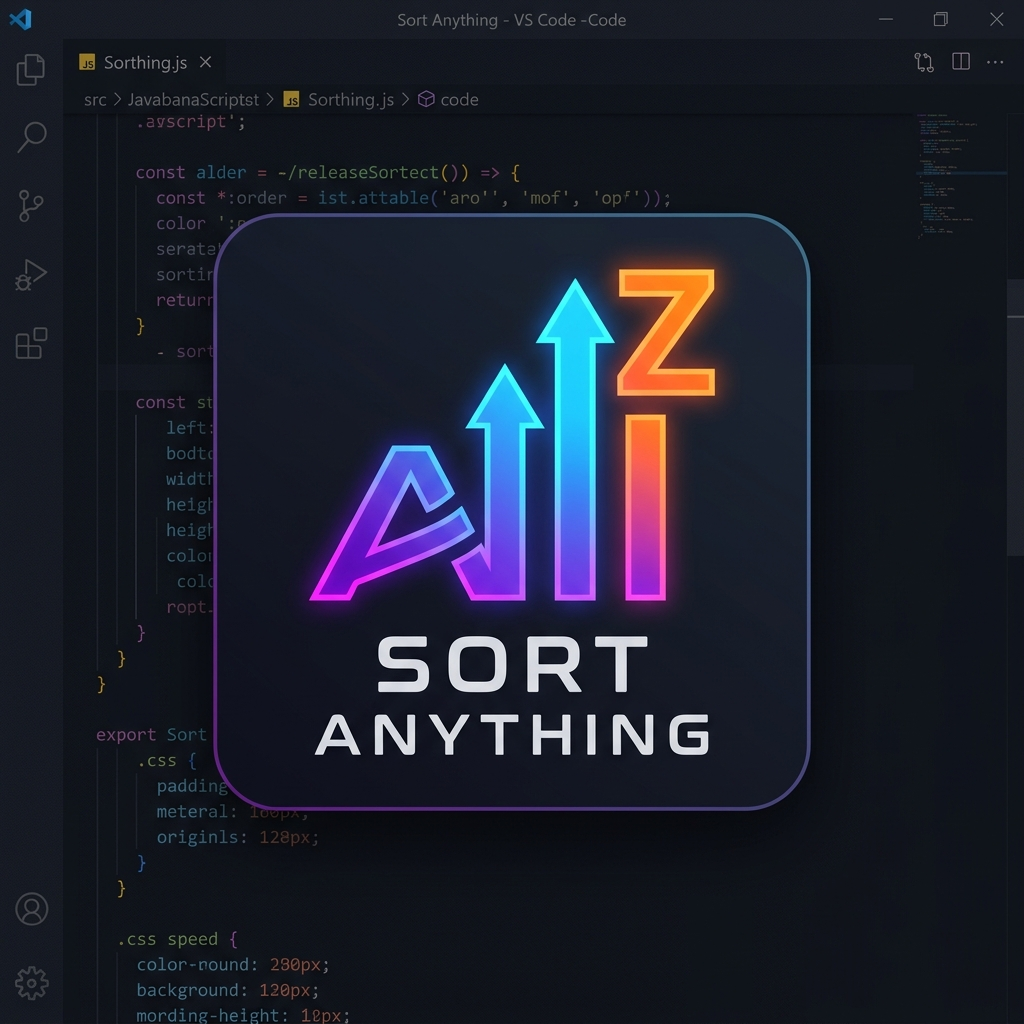
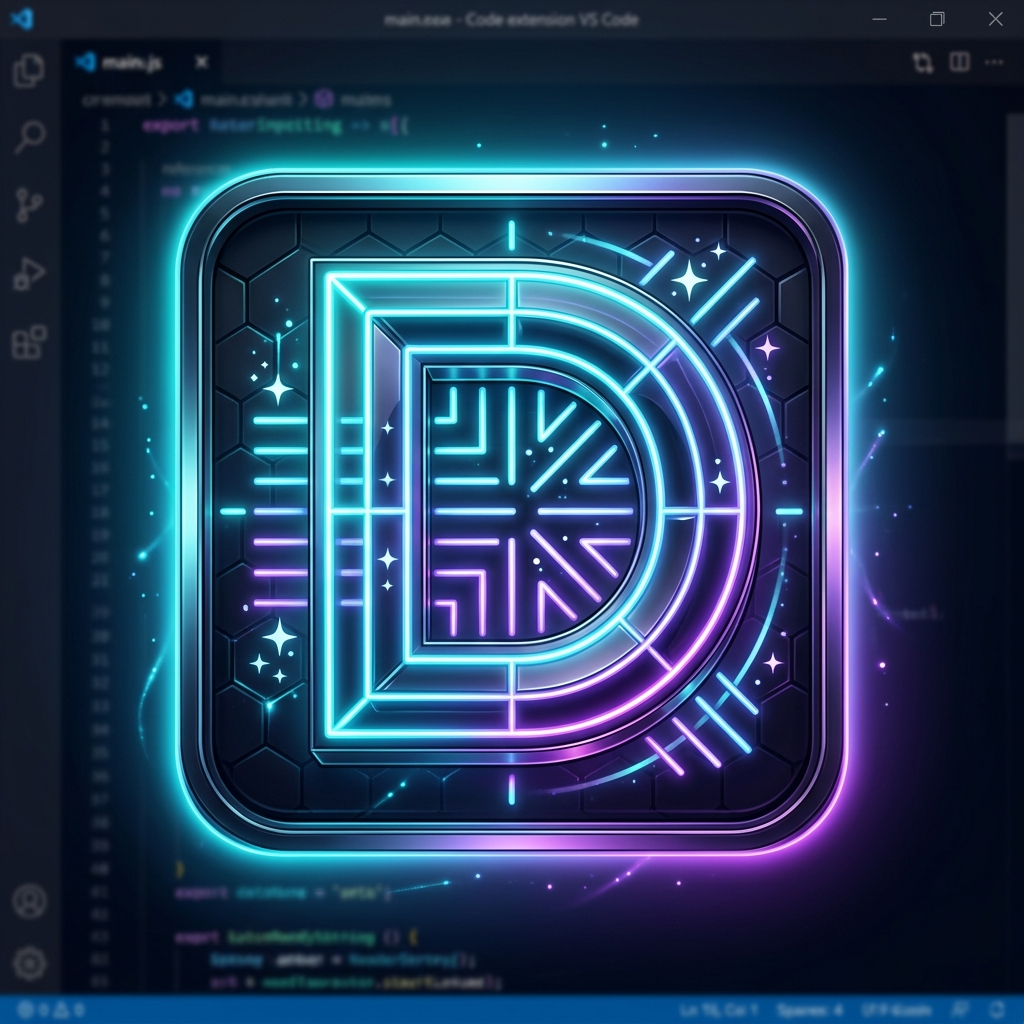
Rename extension to Dyno Extension and bump version to v0.2.0

diff --git a/src/commitGenerator.ts b/src/commitGenerator.ts
@@ -78,17 +78,17 @@ async function getGeminiModels(apiKey: string): Promise<vscode.QuickPickItem[]> 
 }
 
 async function callGemini(prompt: string, systemInstruction: string, overrideModel?: string): Promise<string> {
-    const config = vscode.workspace.getConfiguration('sortAnything');
+    const config = vscode.workspace.getConfiguration('dynoExtension');
     const apiKey = config.get<string>('geminiApiKey', '').trim();
     const model = (overrideModel || 'gemini-3.5-flash').trim();
 
     if (!apiKey) {
         const action = await vscode.window.showErrorMessage(
-            'Sort Anything: Gemini API Key is missing.',
+            'Dyno Extension: Gemini API Key is missing.',
             'Open Settings'
         );
         if (action === 'Open Settings') {
-            vscode.commands.executeCommand('workbench.action.openSettings', 'sortAnything');
+            vscode.commands.executeCommand('workbench.action.openSettings', 'dynoExtension');
         }
         throw new Error('Gemini API Key missing — operation cancelled.');
     }
@@ -128,7 +128,7 @@ async function callGemini(prompt: string, systemInstruction: string, overrideMod
 // ---------------------------------------------------------------------------
 
 async function callOllama(prompt: string, systemPrompt: string, overrideModel?: string): Promise<string> {
-    const config = vscode.workspace.getConfiguration('sortAnything');
+    const config = vscode.workspace.getConfiguration('dynoExtension');
     const endpoint = config.get<string>('ollamaEndpoint', 'http://localhost:11434').trim().replace(/\/$/, '');
     const model = (overrideModel || config.get<string>('ollamaModel', 'llama3')).trim();
 
@@ -204,13 +204,13 @@ async function runGeneration(
     }>('vscode.git');
 
     if (!gitExtension) {
-        vscode.window.showErrorMessage('Sort Anything: VS Code Git extension not found.');
+        vscode.window.showErrorMessage('Dyno Extension: VS Code Git extension not found.');
         return;
     }
 
     const git = gitExtension.exports.getAPI(1);
     if (git.repositories.length === 0) {
-        vscode.window.showErrorMessage('Sort Anything: No active Git repository found.');
+        vscode.window.showErrorMessage('Dyno Extension: No active Git repository found.');
         return;
     }
 
@@ -241,7 +241,7 @@ async function runGeneration(
         });
 
         const pickedRepo = await vscode.window.showQuickPick(repoItems, {
-            title: 'Sort Anything — Select Git Repository',
+            title: 'Dyno Extension — Select Git Repository',
             placeHolder: 'Select the repository to generate a commit message for',
             matchOnDescription: true,
         });
@@ -257,13 +257,13 @@ async function runGeneration(
     try {
         diff = getGitDiff(selectedRepo.rootUri.fsPath);
     } catch (err) {
-        vscode.window.showErrorMessage(`Sort Anything: ${(err as Error).message}`);
+        vscode.window.showErrorMessage(`Dyno Extension: ${(err as Error).message}`);
         return;
     }
 
     if (!diff) {
         vscode.window.showWarningMessage(
-            'Sort Anything: No staged changes found. Please run "git add" first.'
+            'Dyno Extension: No staged changes found. Please run "git add" first.'
         );
         return;
     }
@@ -278,7 +278,7 @@ async function runGeneration(
         const message = await vscode.window.withProgress(
             {
                 location: vscode.ProgressLocation.Notification,
-                title: `Sort Anything: Generating commit message with ${label}...`,
+                title: `Dyno Extension: Generating commit message with ${label}...`,
                 cancellable: false,
             },
             async () => {
@@ -291,16 +291,16 @@ async function runGeneration(
 
         // Insert final message
         inputBox.value = message;
-        vscode.window.setStatusBarMessage(`$(check) Sort Anything: Commit message populated from ${label}!`, 4000);
+        vscode.window.setStatusBarMessage(`$(check) Dyno Extension: Commit message populated from ${label}!`, 4000);
     } catch (err) {
         logError(err, `Failed to generate commit message with ${label}`);
         
         const action = await vscode.window.showErrorMessage(
-            `Sort Anything: ${(err as Error).message}`,
+            `Dyno Extension: ${(err as Error).message}`,
             'Open Settings'
         );
         if (action === 'Open Settings') {
-            vscode.commands.executeCommand('workbench.action.openSettings', 'sortAnything');
+            vscode.commands.executeCommand('workbench.action.openSettings', 'dynoExtension');
         }
     }
 }
@@ -352,8 +352,8 @@ let sessionGeminiModel: string | undefined;
 let sessionOllamaModel: string | undefined;
 
 export async function generateCommitMessage(context: vscode.ExtensionContext, scm?: any): Promise<void> {
-    const config = vscode.workspace.getConfiguration('sortAnything');
-    const currentProvider = config.get<string>('aiProvider', 'gemini');
+    const config = vscode.workspace.getConfiguration('dynoExtension');
+    const currentProvider = context.globalState.get<string>('lastAiProvider', 'gemini');
     
     // Read last used models from globalState
     const geminiModel = context.globalState.get<string>('lastGeminiModel', 'gemini-3.5-flash');
@@ -376,14 +376,14 @@ export async function generateCommitMessage(context: vscode.ExtensionContext, sc
             action: 'ollama',
         },
         {
-            label: '$(settings-gear) Switch AI Provider / Configure...',
-            description: 'Open Settings to change provider, model, or API keys',
+            label: '$(settings-gear) Configure API Keys & Endpoints...',
+            description: 'Open Settings to configure Gemini API Key or Ollama Endpoint',
             action: 'settings',
         },
     ];
 
     const picked = await vscode.window.showQuickPick(items, {
-        title: 'Sort Anything — Generate Commit Message',
+        title: 'Dyno Extension — Generate Commit Message',
         placeHolder: 'Select AI provider to generate commit message',
         matchOnDescription: true,
     });
@@ -391,18 +391,18 @@ export async function generateCommitMessage(context: vscode.ExtensionContext, sc
     if (!picked) { return; }
 
     if (picked.action === 'settings') {
-        vscode.commands.executeCommand('workbench.action.openSettings', 'sortAnything');
+        vscode.commands.executeCommand('workbench.action.openSettings', 'dynoExtension');
         return;
     }
 
     if (picked.action === 'gemini') {
         if (!geminiApiKey) {
             const action = await vscode.window.showErrorMessage(
-                'Sort Anything: Gemini API Key is missing.',
+                'Dyno Extension: Gemini API Key is missing.',
                 'Open Settings'
             );
             if (action === 'Open Settings') {
-                vscode.commands.executeCommand('workbench.action.openSettings', 'sortAnything');
+                vscode.commands.executeCommand('workbench.action.openSettings', 'dynoExtension');
             }
             return;
         }
@@ -416,7 +416,7 @@ export async function generateCommitMessage(context: vscode.ExtensionContext, sc
                 modelItems = await vscode.window.withProgress(
                     {
                         location: vscode.ProgressLocation.Notification,
-                        title: 'Sort Anything: Fetching model list from Gemini...',
+                        title: 'Dyno Extension: Fetching model list from Gemini...',
                         cancellable: false,
                     },
                     () => getGeminiModels(geminiApiKey)
@@ -424,17 +424,17 @@ export async function generateCommitMessage(context: vscode.ExtensionContext, sc
             } catch (err) {
                 logError(err, 'Failed to fetch models from Gemini');
                 const action = await vscode.window.showErrorMessage(
-                    `Sort Anything: ${(err as Error).message}`,
+                    `Dyno Extension: ${(err as Error).message}`,
                     'Open Settings'
                 );
                 if (action === 'Open Settings') {
-                    vscode.commands.executeCommand('workbench.action.openSettings', 'sortAnything');
+                    vscode.commands.executeCommand('workbench.action.openSettings', 'dynoExtension');
                 }
                 return;
             }
 
             const pickedModel = await vscode.window.showQuickPick(modelItems, {
-                title: 'Sort Anything — Select Gemini Model',
+                title: 'Dyno Extension — Select Gemini Model',
                 placeHolder: 'Select a Gemini model',
                 matchOnDescription: true,
             });
@@ -447,7 +447,7 @@ export async function generateCommitMessage(context: vscode.ExtensionContext, sc
             await context.globalState.update('lastGeminiModel', targetModel);
         }
 
-        await config.update('aiProvider', 'gemini', vscode.ConfigurationTarget.Global);
+        await context.globalState.update('lastAiProvider', 'gemini');
         await runGeneration('gemini', targetModel, scm);
 
     } else if (picked.action === 'ollama') {
@@ -460,7 +460,7 @@ export async function generateCommitMessage(context: vscode.ExtensionContext, sc
                 modelItems = await vscode.window.withProgress(
                     {
                         location: vscode.ProgressLocation.Notification,
-                        title: 'Sort Anything: Fetching model list from Ollama...',
+                        title: 'Dyno Extension: Fetching model list from Ollama...',
                         cancellable: false,
                     },
                     () => getOllamaModels(ollamaEndpoint)
@@ -469,17 +469,17 @@ export async function generateCommitMessage(context: vscode.ExtensionContext, sc
                 logError(err, 'Failed to fetch models from Ollama');
                 
                 const action = await vscode.window.showErrorMessage(
-                    `Sort Anything: ${(err as Error).message}`,
+                    `Dyno Extension: ${(err as Error).message}`,
                     'Open Settings'
                 );
                 if (action === 'Open Settings') {
-                    vscode.commands.executeCommand('workbench.action.openSettings', 'sortAnything');
+                    vscode.commands.executeCommand('workbench.action.openSettings', 'dynoExtension');
                 }
                 return;
             }
 
             const pickedModel = await vscode.window.showQuickPick(modelItems, {
-                title: 'Sort Anything — Select Ollama Model',
+                title: 'Dyno Extension — Select Ollama Model',
                 placeHolder: 'Select an available local model',
                 matchOnDescription: true,
             });
@@ -492,7 +492,7 @@ export async function generateCommitMessage(context: vscode.ExtensionContext, sc
             await context.globalState.update('lastOllamaModel', targetModel);
         }
 
-        await config.update('aiProvider', 'ollama', vscode.ConfigurationTarget.Global);
+        await context.globalState.update('lastAiProvider', 'ollama');
         await runGeneration('ollama', targetModel, scm);
     }
 }

diff --git a/src/extension.ts b/src/extension.ts
@@ -5,56 +5,56 @@ import { generateCommitMessage } from './commitGenerator';
 import { logInfo } from './utils';
 
 export function activate(context: vscode.ExtensionContext) {
-    logInfo('Sort Anything extension activated successfully.');
+    logInfo('Dyno Extension activated successfully.');
     const sortDocumentDisposable = vscode.commands.registerTextEditorCommand(
-        'sortAnything.sortDocument',
+        'dynoExtension.sortDocument',
         (textEditor, edit) => {
             const edits = sortDocument(textEditor.document);
             if (edits.length === 0) {
-                vscode.window.setStatusBarMessage('$(check) Sort Anything: Already sorted or nothing to sort.', 3000);
+                vscode.window.setStatusBarMessage('$(check) Dyno Extension: Already sorted or nothing to sort.', 3000);
                 return;
             }
             for (const textEdit of edits) {
                 edit.replace(textEdit.range, textEdit.newText);
             }
-            vscode.window.setStatusBarMessage('$(check) Sort Anything: Document sorted!', 3000);
+            vscode.window.setStatusBarMessage('$(check) Dyno Extension: Document sorted!', 3000);
         }
     );
 
     const sortSelectionDisposable = vscode.commands.registerTextEditorCommand(
-        'sortAnything.sortSelection',
+        'dynoExtension.sortSelection',
         (textEditor, edit) => {
             const edits = sortSelection(textEditor.document, textEditor.selection);
             if (edits.length === 0) {
-                vscode.window.setStatusBarMessage('$(check) Sort Anything: Already sorted or nothing to sort.', 3000);
+                vscode.window.setStatusBarMessage('$(check) Dyno Extension: Already sorted or nothing to sort.', 3000);
                 return;
             }
             for (const textEdit of edits) {
                 edit.replace(textEdit.range, textEdit.newText);
             }
-            vscode.window.setStatusBarMessage('$(check) Sort Anything: Selection sorted!', 3000);
+            vscode.window.setStatusBarMessage('$(check) Dyno Extension: Selection sorted!', 3000);
         }
     );
 
     const generateBarrelDisposable = vscode.commands.registerCommand(
-        'sortAnything.generateDartBarrel',
+        'dynoExtension.generateDartBarrel',
         async (folderUri: vscode.Uri) => {
             // Fallback: use the workspace folder if called from command palette
             const targetUri = folderUri ?? vscode.workspace.workspaceFolders?.[0]?.uri;
             if (!targetUri) {
-                vscode.window.showErrorMessage('Sort Anything: No folder selected.');
+                vscode.window.showErrorMessage('Dyno Extension: No folder selected.');
                 return;
             }
             try {
                 await generateBarrelFile(targetUri);
             } catch (e) {
-                vscode.window.showErrorMessage(`Sort Anything: ${(e as Error).message}`);
+                vscode.window.showErrorMessage(`Dyno Extension: ${(e as Error).message}`);
             }
         }
     );
 
     const generateCommitDisposable = vscode.commands.registerCommand(
-        'sortAnything.generateCommitMessage',
+        'dynoExtension.generateCommitMessage',
         async (scm?: any) => {
             await generateCommitMessage(context, scm);
         }

diff --git a/src/barrelGenerator.ts b/src/barrelGenerator.ts
@@ -70,7 +70,7 @@ export async function generateBarrelFile(folderUri: vscode.Uri): Promise<void> {
 
     if (exportablePaths.length === 0) {
         vscode.window.showWarningMessage(
-            `Sort Anything: No exportable Dart files found in "${folderName}".`
+            `Dyno Extension: No exportable Dart files found in "${folderName}".`
         );
         return;
     }
@@ -92,7 +92,7 @@ export async function generateBarrelFile(folderUri: vscode.Uri): Promise<void> {
     await vscode.window.showTextDocument(doc);
 
     vscode.window.setStatusBarMessage(
-        `$(check) Sort Anything: Barrel file "${barrelFileName}" generated with ${exportLines.length} export(s).`,
+        `$(check) Dyno Extension: Barrel file "${barrelFileName}" generated with ${exportLines.length} export(s).`,
         4000
     );
 }

diff --git a/src/sorter.ts b/src/sorter.ts
@@ -76,7 +76,7 @@ function sortText(text: string, languageId: string, indent: string): string | nu
             return sortLines(text);
         }
     } catch (e) {
-        vscode.window.showErrorMessage(`Sort Anything: Failed to sort — ${(e as Error).message}`);
+        vscode.window.showErrorMessage(`Dyno Extension: Failed to sort — ${(e as Error).message}`);
         console.error('Error sorting text:', e);
     }
     return null;

diff --git a/src/utils.ts b/src/utils.ts
@@ -4,7 +4,7 @@ let outputChannel: vscode.OutputChannel | undefined;
 
 function getOutputChannel(): vscode.OutputChannel {
     if (!outputChannel) {
-        outputChannel = vscode.window.createOutputChannel('Sort Anything');
+        outputChannel = vscode.window.createOutputChannel('Dyno Extension');
     }
     return outputChannel;
 }

diff --git a/README.md b/README.md
@@ -1,6 +1,6 @@
 <div align="center">
-  <img src="icon.png" width="128" height="128" alt="Sort Anything Icon" />
-  <h1>Sort Anything</h1>
+  <img src="icon.png" width="128" height="128" alt="Dyno Extension Icon" />
+  <h1>Dyno Extension</h1>
   <p>A powerful VS Code extension to sort data files, generate Dart barrel files, and craft AI-powered commit messages.</p>
 </div>
 
@@ -57,8 +57,8 @@
 ### Sort a file
 
 1. Open a supported file (e.g., `data.json`, `config.yaml`, `.env`).
-2. **Right-Click** anywhere in the file → **"Sort Anything: Sort Document"**.
-3. To sort a specific section, highlight text → **Right-Click** → **"Sort Anything: Sort Selection"**.
+2. **Right-Click** anywhere in the file → **"Dyno Extension: Sort Document"**.
+3. To sort a specific section, highlight text → **Right-Click** → **"Dyno Extension: Sort Selection"**.
 4. _(Alternatively: Command Palette `Ctrl+Shift+P` / `Cmd+Shift+P`)_
 
 ### Generate AI Commit Message
@@ -90,12 +90,10 @@ export 'user.dart';
 
 ## Extension Settings
 
-| Setting                       | Default                    | Description                                                                                     |
-| ----------------------------- | -------------------------- | ----------------------------------------------------------------------------------------------- |
-| `sortAnything.aiProvider`     | `"gemini"`                 | Default AI provider (`gemini` or `ollama`)                                                      |
-| `sortAnything.geminiApiKey`   | `""`                       | Your Gemini API key — get one free at [aistudio.google.com](https://aistudio.google.com/apikey) |
-| `sortAnything.geminiModel`    | `"gemini-3.5-flash"`       | Gemini model to use (e.g., `gemini-3.5-flash`, `gemini-3.1-flash-lite`)                         |
-| `sortAnything.ollamaEndpoint` | `"http://localhost:11434"` | Ollama server endpoint                                                                          |
+| Setting                         | Default                    | Description                                                                                     |
+| ------------------------------- | -------------------------- | ----------------------------------------------------------------------------------------------- |
+| `dynoExtension.geminiApiKey`    | `""`                       | Your Gemini API key — get one free at [aistudio.google.com](https://aistudio.google.com/apikey) |
+| `dynoExtension.ollamaEndpoint`  | `"http://localhost:11434"` | Ollama server endpoint                                                                          |
 
 > **Tip:** You can open settings directly from the **⚙️ Switch AI Provider / Configure...** option in the commit message dropdown.
 

diff --git a/CHANGELOG.md b/CHANGELOG.md
@@ -1,6 +1,6 @@
 # Change Log
 
-All notable changes to the "Sort Anything" extension will be documented in this file.
+All notable changes to the "Dyno Extension" extension will be documented in this file.
 
 ## [0.1.0] - 2026-07-09
 - Added **AI Commit Message Generator** featuring: